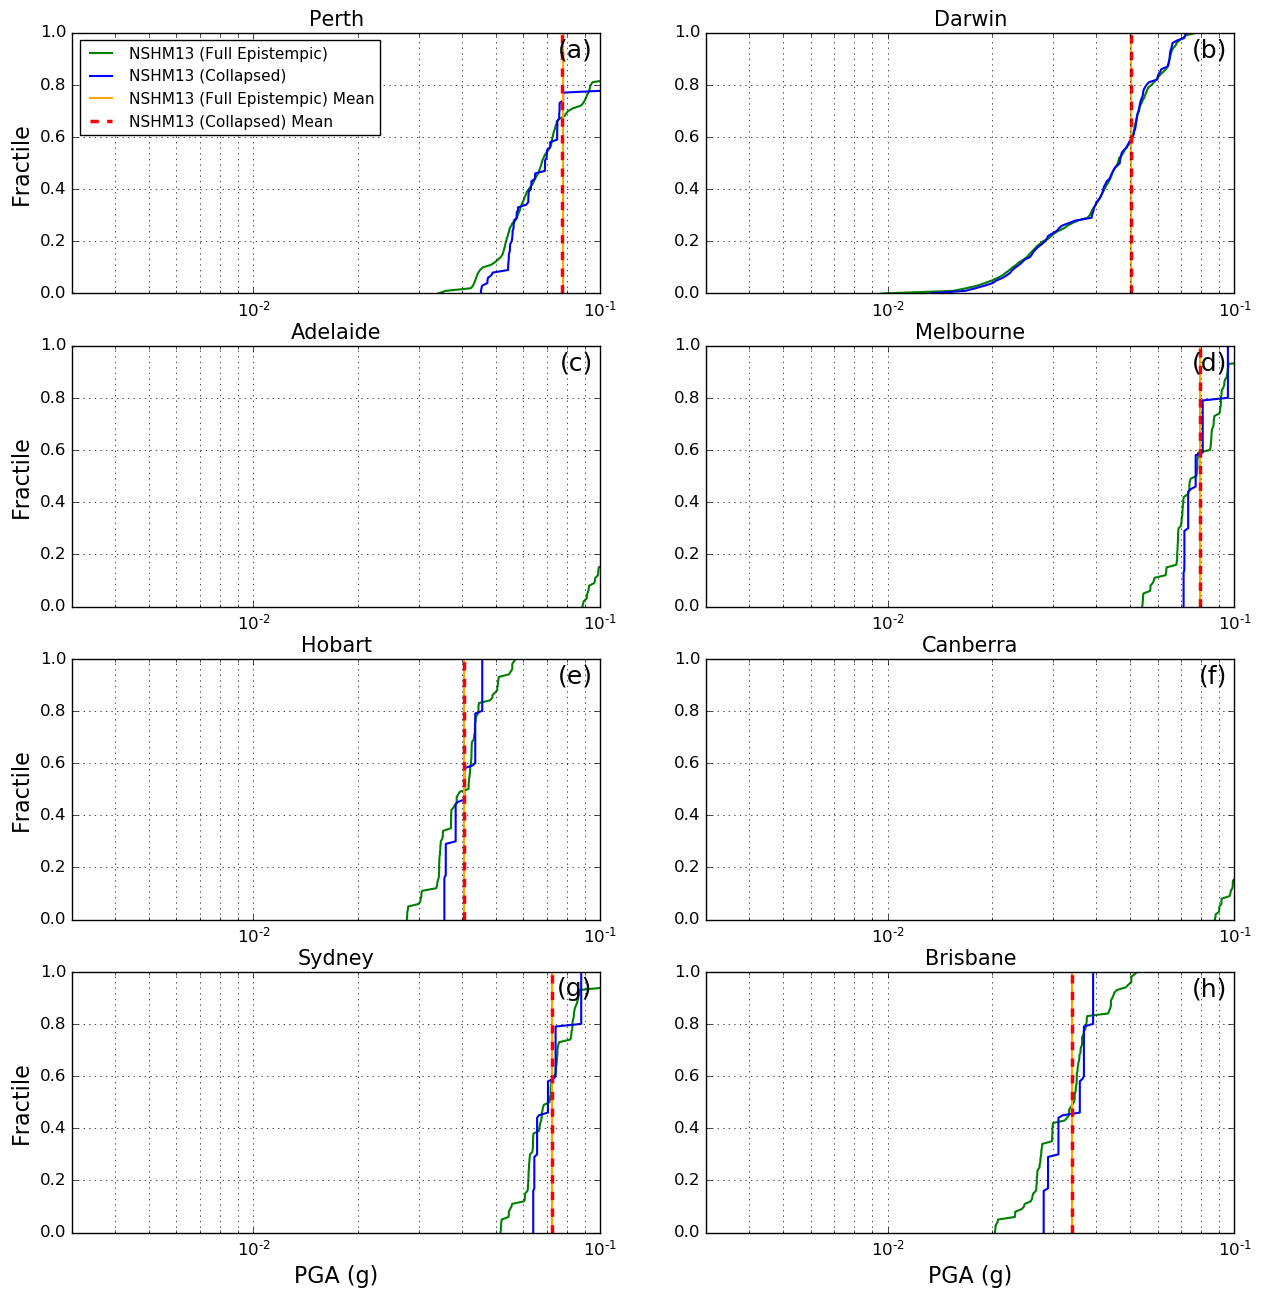
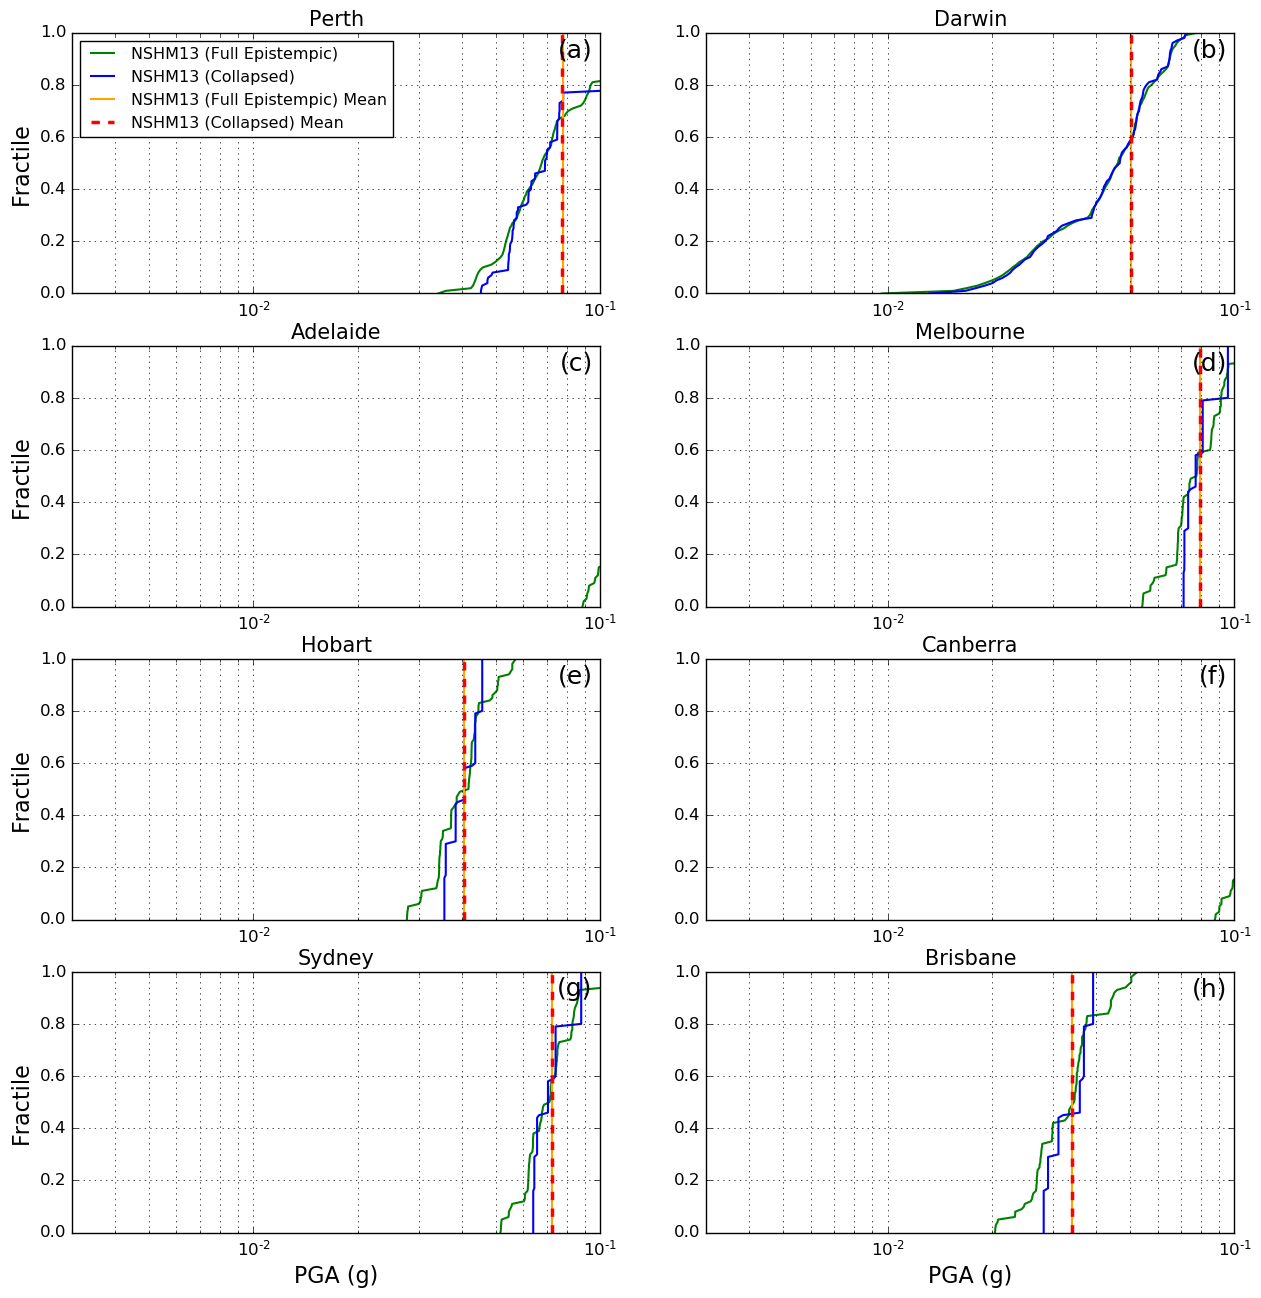
updating multifractiles

Changed region(s): [[0.0619, 0.0308, 0.3093, 0.1233]]

diff --git a/nsha18/final_overview/epistemic_var/cmp_full_collapsed_cdf.py b/nsha18/final_overview/epistemic_var/cmp_full_collapsed_cdf.py
@@ -168,7 +168,7 @@ for k, key in enumerate(keys[:2]):
                 plt.semilogx([frac2['mean_'+key],frac2['mean_'+key]], [0,1], '--', c='r', lw=2.5, label=modnames[1]+' Mean')
                 
                 if i == 0:
-                    plt.legend(loc=2, fontsize=11)
+                    plt.legend(loc=2, fontsize=11.5)
                 
                 '''
                 # plt median
